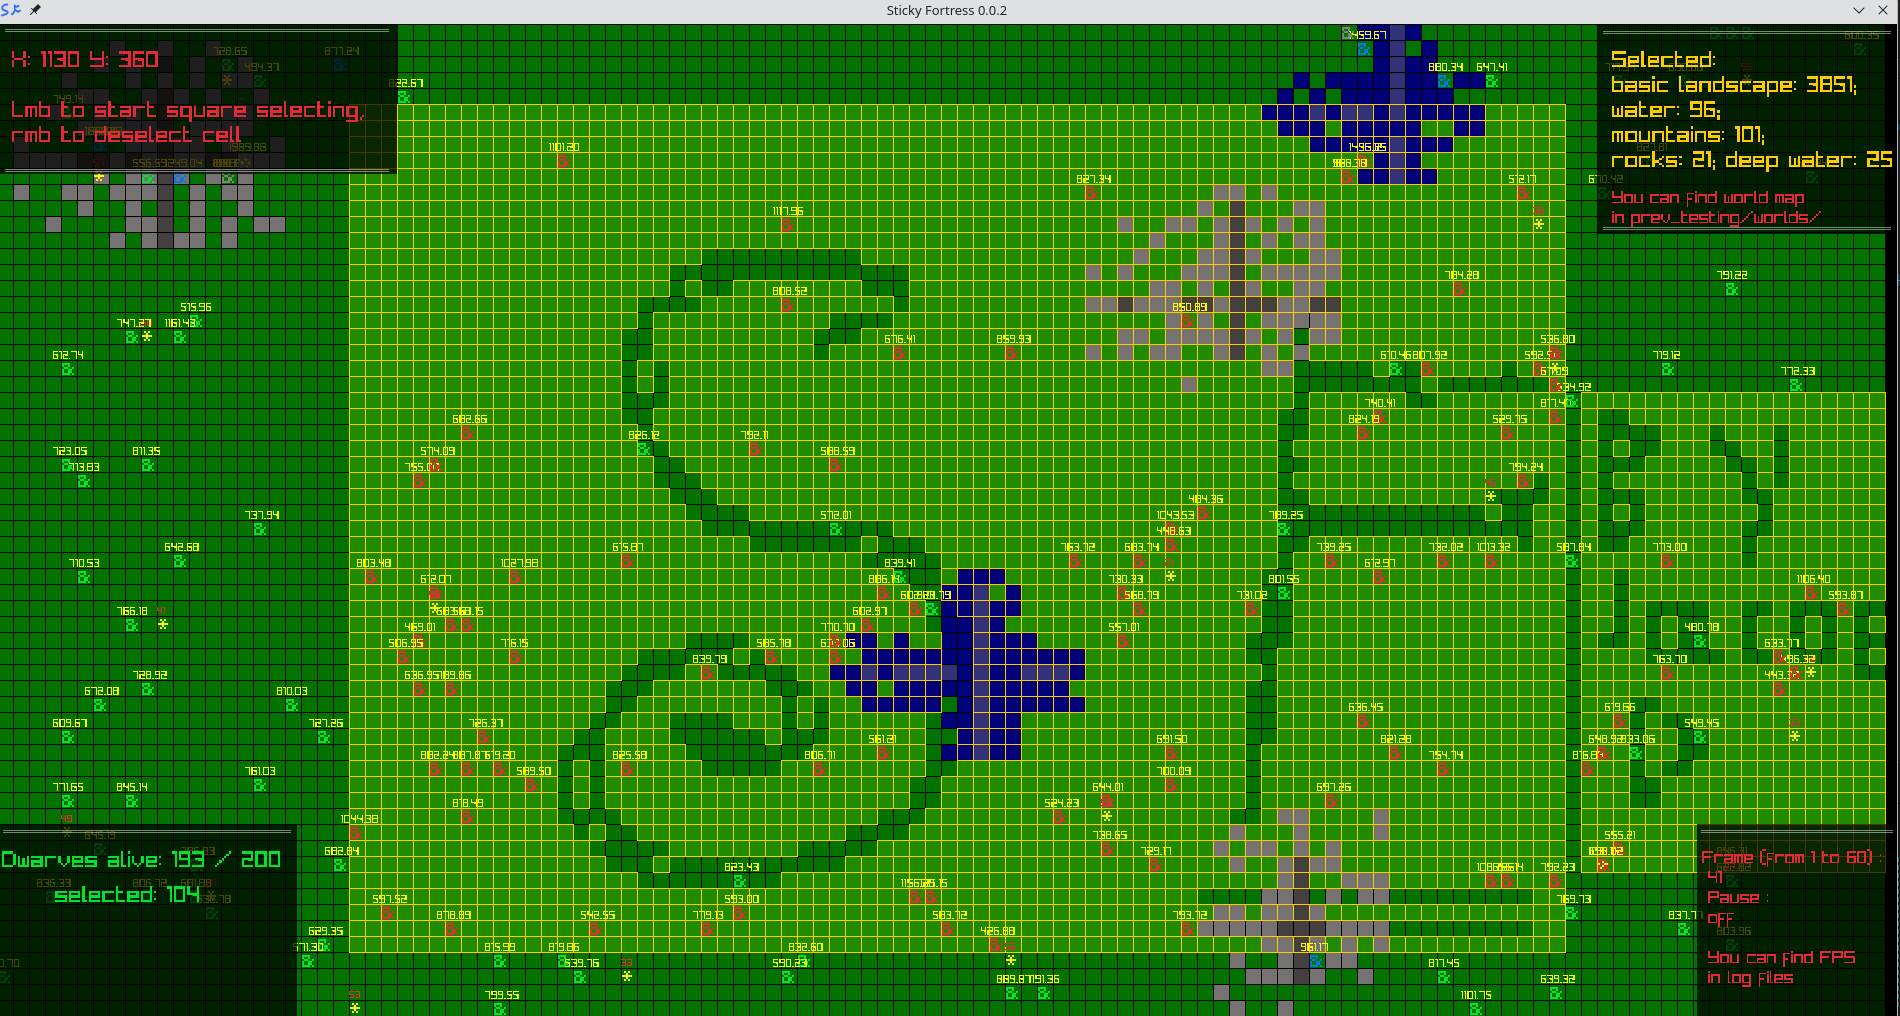
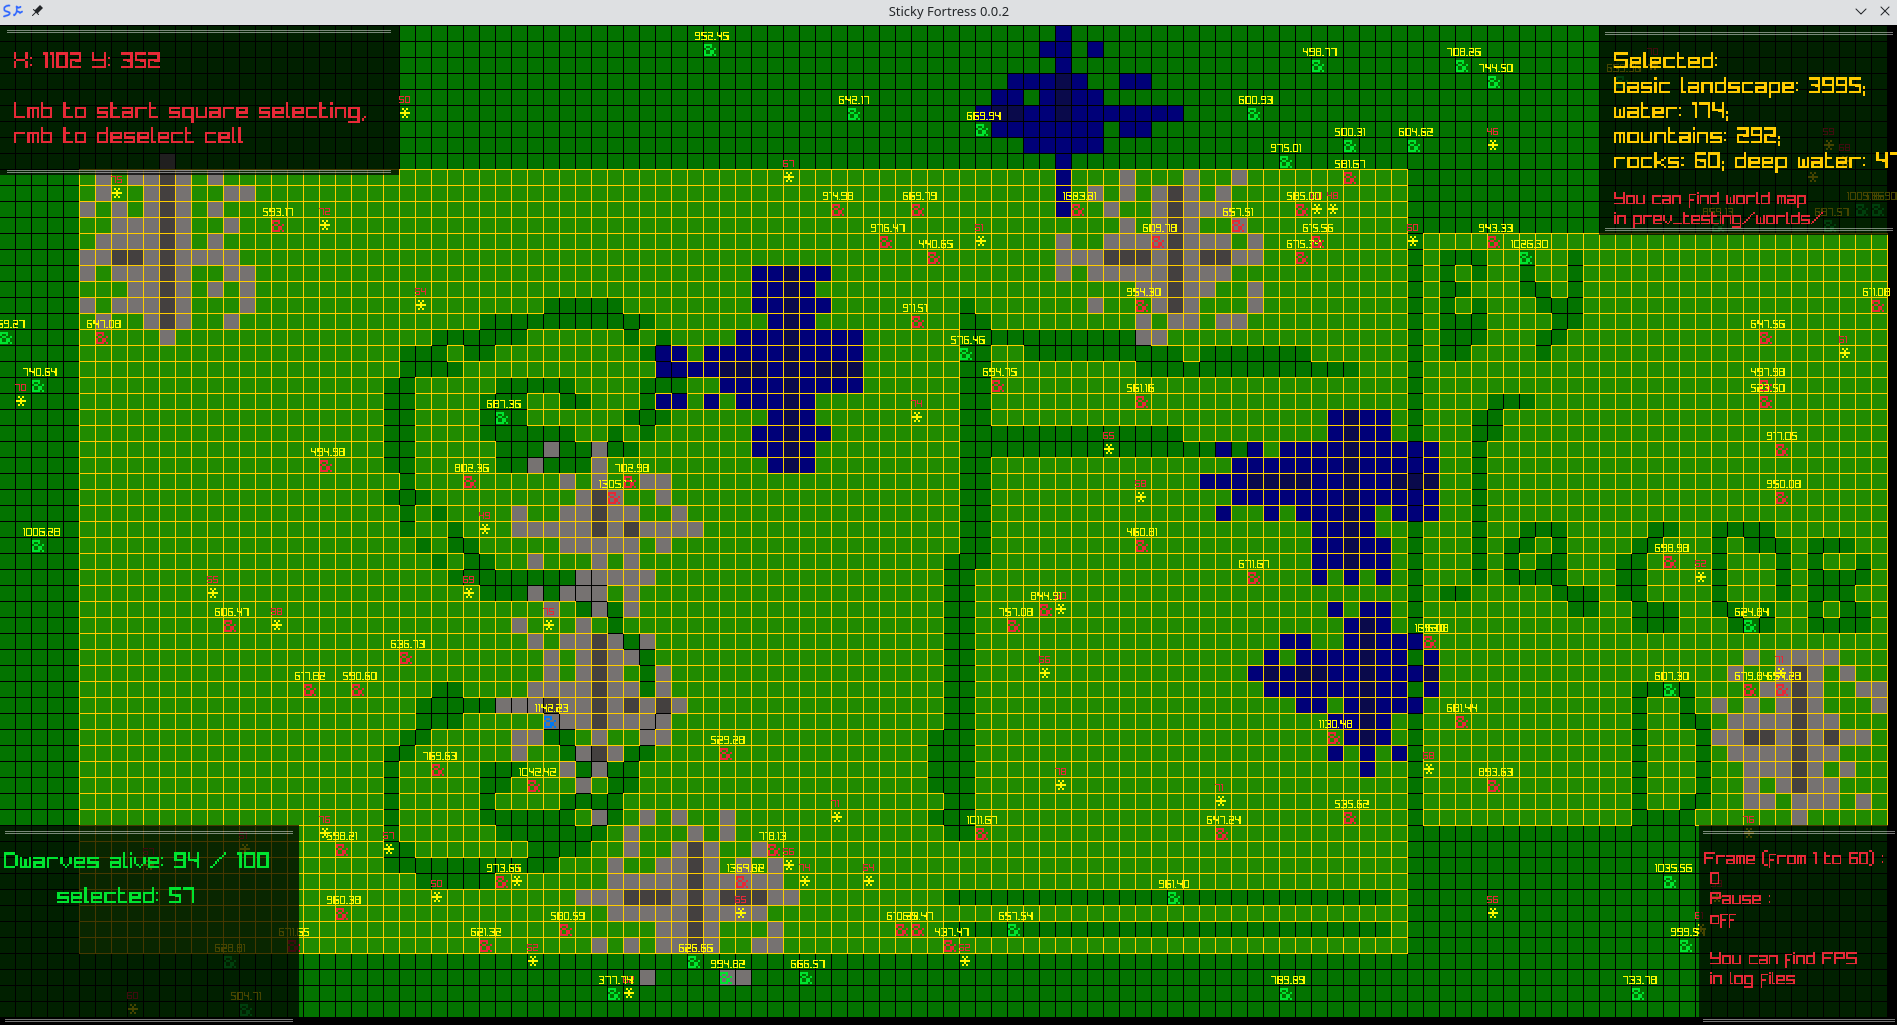
Ver 0.02 final commit

diff --git a/prev_testing/src/run/dwarves.c b/prev_testing/src/run/dwarves.c
@@ -76,25 +76,26 @@ void bypass_obstacle(dwarf *dw, world *wrl)
 {
     if (dw->nm_direct == RIGHT || dw->nm_direct == LEFT)
     {
-        if (!wrl->map[cell_id_in_map(dw->nm_target_cell_coords.x, dw->nm_target_cell_coords.y + 1, wrl->map_size.x)].land_type.can_be_occupied) {
-            dw->nm_direct = DOWN; // <-- This doesn't affect to ...
+        dw->nm_target_cell_coords.x = dw->coords.x;
+        if (wrl->map[cell_id_in_map(dw->coords.x, dw->coords.y + 1, wrl->map_size.x)].land_type.can_be_occupied) {
+            dw->nm_target_cell_coords.y -= 2;
+        } else {
+            dw->nm_target_cell_coords.y += 2;
         }
 
-        dw->nm_target_cell_coords.x = dw->coords.x;
-        dw->nm_target_cell_coords.y = dw->coords.y + 2; // This
     }
     else
     {
-        if (!wrl->map[cell_id_in_map(dw->nm_target_cell_coords.x + 1, dw->nm_target_cell_coords.y, wrl->map_size.x)].land_type.can_be_occupied) {
-            dw->nm_direct = RIGHT;  // <-- This doesn't affect to ...
+        if (wrl->map[cell_id_in_map(dw->coords.x + 1, dw->coords.y, wrl->map_size.x)].land_type.can_be_occupied) {
+            dw->nm_target_cell_coords.x -= 2;
+        } else {
+            dw->nm_target_cell_coords.x += 2;
         }
-
-        dw->nm_target_cell_coords.x = dw->coords.x + 2; // This
         dw->nm_target_cell_coords.y = dw->coords.y;
     } 
 }
 
-void continue_moving_to_target_cell(dwarf *dw, world *wrl)
+void continue_moving_to_target_cell(dwarf *dw, world *wrl, world_params_data_lord *world_params_data)
 {
     if (dw->coords.x < dw->nm_target_cell_coords.x)
     {
@@ -230,7 +231,7 @@ void update_dwarf(world *wrl, coord map_size, dwarf *dw, int timer, world_params
             }
             else if (dw->moving_state == TARGETING) // Go to target
             {
-                continue_moving_to_target_cell(dw, wrl);
+                continue_moving_to_target_cell(dw, wrl, world_params_data);
             }
             else if (dw->moving_state == EATING) // Eating
             {

diff --git a/prev_testing/src/run/updatelord.c b/prev_testing/src/run/updatelord.c
@@ -162,7 +162,7 @@ void update_selection(world *wrl, world_params_data_lord *world_params_data, pro
             prog_params_data->square_selecting_freeze = 30;
         }
     }
-    else if (IsMouseButtonDown(MOUSE_RIGHT_BUTTON)) // STUB
+    else if (IsMouseButtonDown(MOUSE_RIGHT_BUTTON))
     {
         if ((prog_params_data->square_selecting_start_cell_coords.x / prog_params_data->rect_size.x) < prog_params_data->window_size.x && (prog_params_data->square_selecting_start_cell_coords.x / prog_params_data->rect_size.x) > 0 && (prog_params_data->square_selecting_start_cell_coords.y / prog_params_data->rect_size.y) < prog_params_data->window_size.y && (prog_params_data->square_selecting_start_cell_coords.y / prog_params_data->rect_size.y) > 0 && wrl->map[cell_id_in_map((prog_params_data->mouse_position.x / prog_params_data->rect_size.x), (prog_params_data->mouse_position.y / prog_params_data->rect_size.y), wrl->map_size.x)].is_selected)
         {

diff --git a/prev_testing/src/run/world.c b/prev_testing/src/run/world.c
@@ -11,7 +11,7 @@ void initialize_world_landscapes(world *wrl)
     landscape_type basic_landscape = {LAND_BASIC, "Basic landscape", true, (Color){3, 130, 0, 225}};
     landscape_type water_landscape = {LAND_WATER, "Water surface", false, (Color){0, 0, 120, 255}};
     landscape_type deep_water_landscape = {LAND_DEEP_WATER, "Deep water", false, (Color){10, 10, 75, 255}};
-    landscape_type mountains_landscape = {LAND_MOUNTAINS, "Mountains and hills", false, (Color){118, 114, 113, 255}};
+    landscape_type mountains_landscape = {LAND_MOUNTAINS, "Mountains and hills", true, (Color){118, 114, 113, 255}};
     landscape_type rock_landscape = {LAND_ROCK, "Hard rock landscape", false, (Color){68, 64, 63, 255}};
 
     wrl->world_landscapes[0] = basic_landscape;

diff --git a/prev_testing/src/run/datalord.c b/prev_testing/src/run/datalord.c
@@ -33,9 +33,9 @@ world_params_data_lord *define_world_params_data_lord()
 
     world_params_data->default_name = "test_world";
 
-    world_params_data->start_dwarves_number = 50;
-    world_params_data->start_food_on_map = 1 + world_params_data->start_dwarves_number / 10;
-    world_params_data->structures_number = 4;
+    world_params_data->start_dwarves_number = 100;
+    world_params_data->start_food_on_map = 1 + world_params_data->start_dwarves_number / 2;
+    world_params_data->structures_number = 10;
 
     world_params_data->dwarves_alive = world_params_data->start_dwarves_number;
     world_params_data->dwarves_selected = 0;

diff --git a/prev_testing/src/include/dwarves.h b/prev_testing/src/include/dwarves.h
@@ -6,7 +6,7 @@
 
 bool move_dwarf(direction direct, dwarf *dw, world *wrl);
 void bypass_obstacle(dwarf *dw, world *wrl);
-void continue_moving_to_target_cell(dwarf *dw, world *wrl);
+void continue_moving_to_target_cell(dwarf *dw, world *wrl, world_params_data_lord *world_params_data);
 void restore_hunger_dwarf(world *wrl, dwarf *dw, world_params_data_lord *world_params_data, log_data_lord *log_data);
 bool find_nearest_food(world *wrl, dwarf *dw, world_params_data_lord *world_params_data);
 void update_dwarf(world *wrl, coord map_size, dwarf *dw, int timer, world_params_data_lord *world_params_data, log_data_lord *log_data);

diff --git a/prev_testing/src/run/generate.c b/prev_testing/src/run/generate.c
@@ -34,7 +34,7 @@ void generate_structure(world *wrl)
     }
 
     int pond = 0;
-    int pond_step = 100; // If step larger - structure more solid; if less - structure more thin
+    int pond_step = 30; // If step larger - structure more solid; if less - structure more thin
 
     coord size_val = (coord){wrl->map_size.x / 20, wrl->map_size.y / 15};
     coord skeleton_x_size = (coord){size_val.x + rand() % size_val.x, size_val.x + rand() % size_val.x}; // Size borders of structure skeleton

diff --git a/prev_testing/plan.md b/prev_testing/plan.md
@@ -1,4 +1,4 @@
-> Разработка начата: 13.11.2025
+> Разработка начата: 14.11.2025
 
 # ver 0.01: -- стартовая -- ✔
 > С этой версии все началось
@@ -20,7 +20,7 @@
 6) Логирование ✔
 
 7) Рефакторинг и изменение кода: ✔
-   1. Перенести хранение дварфов и карты мира из стека в кучу: ✔
+   1. Перенести хранение дварфов и карты мира из стека в кучу ✔
 
 8) Нововведния и расшерение: ✔
    1. Добавить `items` ✔
@@ -30,7 +30,7 @@
       4. Обновить логику дварфов с учетом новой системы ✔
 
 8) Улучшение моментов ✔
-   1. Улучшить генерацию: ✔
+   1. Улучшить генерацию ✔
       1. Найти баланс между параметрами и шаблонизировать их ✔
       2. Исправить появление дварфов в воде ✔
       3. Исправить наложение структур при генерации ✔
@@ -45,10 +45,10 @@
          1. Сделать отдельный модуль с функцией инициализации (что бы не захламлять `main.c` созданием интерфейса) ✔
 
 > Итог: версия ver 0.01 завершена  
-> Потрачено: 5 месяцев 18 дней  
-> Строк кода: 1090 включая все include
+> Потрачено: 5 месяцев 17 дней  
+> Строк кода (ploc): 1090
 
-# ver 0.02 -- улучшение quality of code:
+# ver 0.02: -- улучшение quality of code -- ✔
 > Теперь, когда основной фундамент построен, код нужно привести в порядок  
 > и подготовить прочную платформу для добавления основного функционала
 
@@ -74,7 +74,7 @@
    2. При инициализации создавать файл `worlds/[world_name].txt` ✔
    3. При вызове определённой функции сохранять все данные из `world` в этот файл ✔
 
-4) Переработать систему обновления:  
+4) Переработать систему обновления: ✔  
    1. Перенести все обновление в отдельную систему `update_lord`. Что надо перенести: ✔
       1. Обновление времени, fps и таймера ✔
       2. Обновление счетчика выделенных и живых ✗ дварфов ✗ и клеток ✔ (для дварфов найдено лучшее решение: обновление их статов перенесено в dwarves.c)
@@ -84,24 +84,26 @@
    3. Кроме того, нужно будет что-что придумать насчёт удаления предметов и ✗ мертвых дварфов ✗ из массива, или их перемещения в конец (в самой Dwarf Fortress мертвые дварфы не удаляются из памяти, в отличии от еды,
    так что этот пункт отменяется, и остается только удаление предметов) ✔
 
-5) Улучшение моментов:
+5) Улучшение моментов: ✔
    1. Улучшить выделение прямоугольником: ✔
-      1. Искать (`минимальный x` между `square_selecting_start_cell_coords.x` и `mouse_position.x`; `минимальный y` между `square_selecting_start_cell_coords.y` и `mouse_position.y`) и затем как обычно рисовать прямоугольник с этих координат по (`максимальный x` между `square_selecting_start_cell_coords.x` и `mouse_position.x`; `максимальный y` между `square_selecting_start_cell_coords.y` и `mouse_position.y`)✔
+      1. Искать (`минимальный x` между `square_selecting_start_cell_coords.x` и `mouse_position.x`; `минимальный y` между `square_selecting_start_cell_coords.y` и `mouse_position.y`) и затем как обычно рисовать прямоугольник с этих координат по (`максимальный x` между `square_selecting_start_cell_coords.x` и `mouse_position.x`; `максимальный y` между `square_selecting_start_cell_coords.y` и `mouse_position.y`) ✔
 
    2. Улучшить генерацию: ✔
       1. Переработать алгоритм генерации структур. Общая схема новой системы генерации: ✔
-         1) Выбирается центр будущей структуры а также параметры вроде размеров скелета и заполняемой области✔  
-         2) В четыре стороны от центра наращивается "скелет"✔  
-         3) Затем в области между центром и краями скелета рандомно заполняются клетки. Здесь можно ввести механику pond из старого алгоритма генерации: сделать какой-то рандомизированный параметр, который✔  будет отвечать за "весомость", то есть вероятность заполнения клетки и, например, гаранитрующий, что скелет полностью "обтянут" заполненными клетками ✔  
+         1) Выбирается центр будущей структуры а также параметры вроде размеров скелета и заполняемой области ✔  
+         2) В четыре стороны от центра наращивается "скелет" ✔  
+         3) Затем в области между центром и краями скелета рандомно заполняются клетки. Здесь можно ввести механику pond из старого алгоритма генерации: сделать какой-то рандомизированный параметр, который будет отвечать за "весомость", то есть вероятность заполнения клетки и, например, гаранитрующий, что скелет полностью "обтянут" заполненными клетками ✔  
 
          ![alt](images/structures_generating_plan.png)
 
    ---
 
-   3. Улучшить дварфов:
-      1. Сделать обход препятствий. Реализовать систему "дальномера": если дварф видит, что спереди непроходимая клетка, он начинает анализировать клетки по разные стороны от этой, и если где-то препятствие заканчивается, идти до нее.
+   3. Улучшить дварфов: ✔
+      1. Сделать обход препятствий. Реализовать систему "дальномера": если дварф видит, что спереди непроходимая клетка, он начинает анализировать клетки по разные стороны от этой, и если где-то препятствие заканчивается, идти до нее. ✗
 
       ![alt](images/dwarves_obstacles_bypassing_plan.png)
+
+      Изначально планируемый алгоритм был слишком сложным, поэтому на данный момент обход препятствий ограничивается перебором направлений.
       
    4. Работа с памятью: ✔
       1. Добавить освобождение памяти, занятой даталордами ✔
@@ -110,13 +112,18 @@
       1. Перенести весь код с `camelCase` на `snake_case` ✔
       2. Сделать макрос для получения клетки из массива по формуле ✔
 
+> Итог: версия ver 0.02 завершена  
+> Потрачено: 5 месяцев 24 дня  
+> Строк кода (loc): 1200
+
 # ver 0.03 -- функциональная
 
-> Первые шаги по приближению к Dwarf Fortress и общее расширение функционала игры
+> Разработка в последнее время практически остановилась, версия 0.02 оказалась бесконечной. Но пора выйти из застоя и вывести Sticky Fortress на новый уровень!
 
 1) Расширить дварфов:
    1. Сделать новую панель в uilord. В ней отображать информацию о всех выделенных дварфах: их id, голод, координаты, enum состояния и т. д.
    2. Добавить возможность базового управления дварфами: назначение клетки до которой нужно идти, еду которую нельзя есть, и пр.
+   3. Улучшить взаимодействие с миром: дварфы должны уметь плавать, перебираться через камни и прочее.
 
 2) Расширить создание мира:
    1. Генерирвать более сглаженные водоемы и горы. Добавить новые типы ландшафтов и углубить интеграцию структур в карту: по краям озер генерировать песок или влажную землю, вокруг гор - пустоши и т. д.
